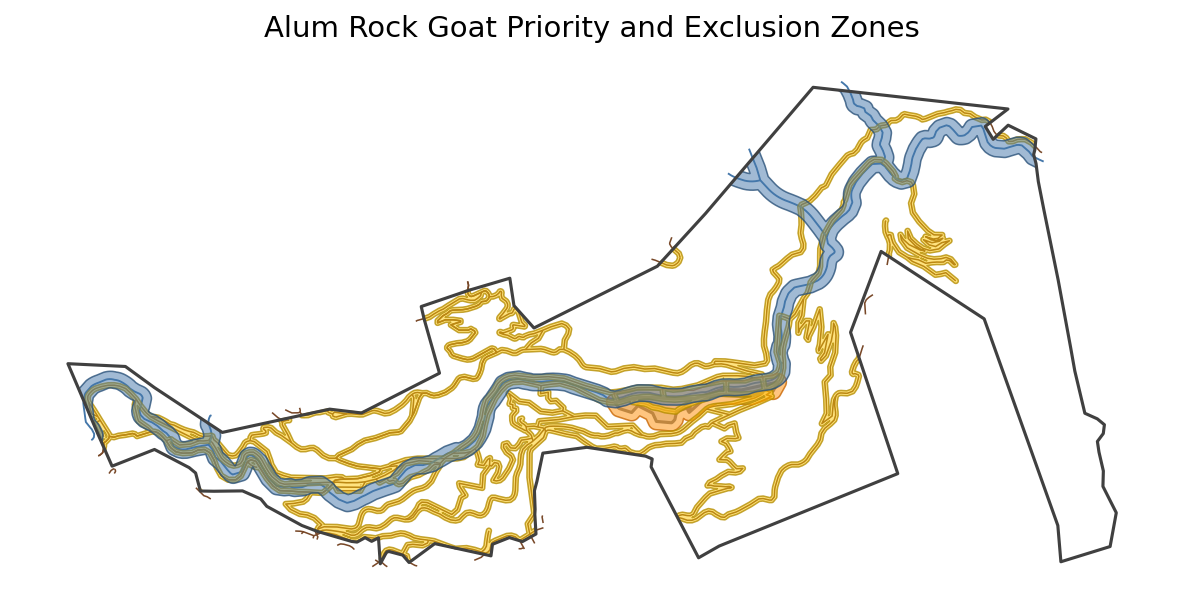
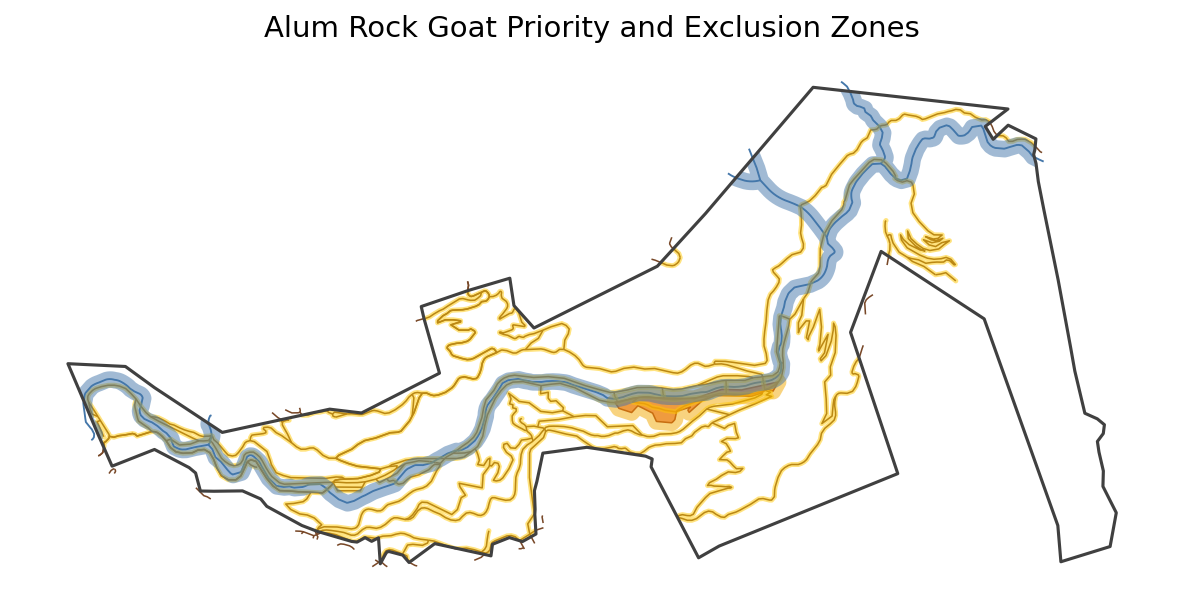
dedupe vegetation classes
minor styling updates

Changed region(s): [[0.0609, 0.1782, 0.8825, 0.9208], [0.6695, 0.6832, 0.6999, 0.7723], [0.5478, 0.4158, 0.5782, 0.4455]]

diff --git a/projects/goats/layers/suitability.py b/projects/goats/layers/suitability.py
@@ -23,15 +23,14 @@ Slope reclassification (inverted — steeper is more effective for goat grazing)
   slope=4  too steep  (58%+)      → 0  (hard exclude)
   gdal_calc: (A==1)*2 + (A==2)*3 + (A==3)*4
 
-Vegetation reclassification (rasterize ENHANCED_LIFEFORM field)
-  Shrub                                      → 4  (primary target)
-  Non-native Herbaceous                      → 3  (invasive, accessible)
-  Herbaceous                                 → 3  (native grassland)
-  Eucalyptus / Non-native Forest             → 1  (neutral)
-  Forest / Deciduous/Evergreen Hardwood
-    / Pine/Cypress                           → 1  (neutral)
-  Riparian Forest                            → 0  (hard exclude via vegetation)
-  Developed                                  → 0  (hard exclude)
+Vegetation reclassification (rasterize veg_class field)
+  Shrub                  → 4  (primary target)
+  Non-native herbaceous  → 3  (invasive, accessible)
+  Herbaceous             → 3  (native grassland)
+  Non-native woodland    → 1  (neutral)
+  Native woodland        → 1  (neutral)
+  Riparian forest        → 0  (hard exclude via vegetation)
+  Developed              → 0  (hard exclude)
   Use rasterio.features.rasterize with a per-feature burn-value lookup.
 
 Priority reclassification (rasterize each buffer polygon; binary → 1-4 scale)
@@ -106,24 +105,26 @@ from projects.goats.util import CRS
 M2_PER_ACRE = 4046.856
 
 # Overlay weights: must sum to 1.0
-WEIGHT_SLOPE = 1 / 3
-WEIGHT_VEGETATION = 1 / 3
-WEIGHT_PRIORITY = 1 / 3
+# priority,slope,vegetation
+# 33,33,33 equal
+# 25,25,50 vegetation
+# 25,50,25 slope
+# 40,30,30 priority
+# 10,40,40 minor priority
+WEIGHT_PRIORITY = 0.1
+WEIGHT_SLOPE = 0.4
+WEIGHT_VEGETATION = 0.4
 
 # index = slope class (0=nodata, 1=flat, 2=moderate, 3=steep, 4=too-steep)
 SLOPE_TO_SUITABILITY = np.array([0, 2, 3, 4, 0], dtype="uint8")
 
 VEGETATION_SUITABILITY: dict[str, int] = {
     "Shrub": 4,
-    "Non-native Herbaceous": 3,
+    "Non-native herbaceous": 3,
     "Herbaceous": 3,
-    "Eucalyptus": 1,
-    "Non-native Forest": 1,
-    "Forest": 1,
-    "Deciduous Hardwood": 1,
-    "Evergreen Hardwood": 1,
-    "Pine/Cypress": 1,
-    "Riparian Forest": 0,
+    "Non-native woodland": 1,
+    "Native woodland": 1,
+    "Riparian forest": 0,
     "Developed": 0,
 }
 
@@ -170,8 +171,8 @@ def build_suitability(layer: BoundLayer) -> None:
     # convert vector vegetation to raster to line up with slope
     veg_gdf = gpd.read_file(vegetation_layer.path).to_crs(CRS)
     veg_shapes = [
-        (geom, VEGETATION_SUITABILITY.get(str(lf), 0))
-        for geom, lf in zip(veg_gdf.geometry, veg_gdf["ENHANCED_LIFEFORM"])
+        (geom, VEGETATION_SUITABILITY.get(str(cls), 0))
+        for geom, cls in zip(veg_gdf.geometry, veg_gdf["veg_class"])
         if geom is not None and not geom.is_empty
     ]
     veg_raster = rasterio.features.rasterize(

diff --git a/projects/goats/palette.py b/projects/goats/palette.py
@@ -28,8 +28,8 @@ WATER_EDGE = Color.from_hex("#285078", alpha=200)
 
 # ── Developed / built environment ──────────────────────────────────────────────
 
-DEVELOPED_FILL = Color.from_hex("#c8c8c8", alpha=128)
-DEVELOPED_EDGE = Color.from_hex("#808080")
+DEVELOPED_FILL = Color.from_hex("#e34a33", alpha=160)
+DEVELOPED_EDGE = Color.from_hex("#9e3322")
 
 # ── Roads and trails ───────────────────────────────────────────────────────────
 
@@ -41,10 +41,10 @@ ROADS_LINE = Color.from_hex("#784828")
 VEG_SHRUB = Color.from_hex("#1a9850")
 VEG_NON_NATIVE_HERB = Color.from_hex("#a6d96a")
 VEG_HERBACEOUS = Color.from_hex("#fee08b")
-VEG_NON_NATIVE_WOOD = Color.from_hex("#cccccc")
-VEG_NATIVE_WOOD = Color.from_hex("#969696")
+VEG_NON_NATIVE_WOOD = Color.from_hex("#6b4f3a")
+VEG_NATIVE_WOOD = Color.from_hex("#a8927a")
+VEG_DEVELOPED = Color.from_hex("#595959")
 VEG_RIPARIAN = Color.from_hex("#bdd7e7")
-VEG_DEVELOPED = Color.from_hex("#636363")
 VEG_EDGE = Color(80, 80, 80, 120)
 
 # ── Slope ──────────────────────────────────────────────────────────────────────
@@ -69,10 +69,8 @@ STAGING_EDGE = Color.from_hex("#6e00a0")
 
 # ── Priority areas ─────────────────────────────────────────────────────────────
 
-PRIORITY_DEVELOPED_FILL = Color.from_hex("#ff8c00", alpha=128)
-PRIORITY_DEVELOPED_EDGE = Color.from_hex("#c86400", alpha=200)
+PRIORITY_DEVELOPED_FILL = Color.from_hex("#f2a900", alpha=128)
 PRIORITY_ROADS_FILL = Color.from_hex("#ffc800", alpha=128)
-PRIORITY_ROADS_EDGE = Color.from_hex("#b48c00", alpha=200)
 
 # ── Rank tiers ─────────────────────────────────────────────────────────────────
 

diff --git a/projects/goats/layers/vegetation.py b/projects/goats/layers/vegetation.py
@@ -3,6 +3,7 @@ Fine scale vegetation map
 """
 
 import os
+from pathlib import Path
 
 import geopandas as gpd
 
@@ -19,6 +20,7 @@ from projects.goats.palette import VEG_EDGE
 from projects.goats.util import (
     BBOX_GENERAL,
     CRS,
+    VEGETATION_VALUE_TO_LABEL,
     VEGETATION_ZONES,
     clip_border,
     vegetation_rules,
@@ -33,8 +35,6 @@ def crop_vegetation_to_bbox() -> None:
     Run once before the pipeline to reduce the 400 MB+ GDB to a small park-only
     file.  Prints size before and after.
     """
-    from pathlib import Path
-
     src_path = "projects/goats/data/fine_scale_vegetation.gdb"
     dst_path = "projects/goats/data/fine_scale_vegetation_bbox.gpkg"
 
@@ -59,10 +59,9 @@ def clip_vegetation(layer: BoundLayer) -> None:
     (border,) = layer.inputs
     gdf = gpd.read_file(layer.raw_path).to_crs(CRS)
     clipped = clip_border(gdf, border.path)
+    clipped["veg_class"] = clipped["ENHANCED_LIFEFORM"].map(VEGETATION_VALUE_TO_LABEL)
     dissolved = (
-        clipped[["ENHANCED_LIFEFORM", "geometry"]]
-        .dissolve(by="ENHANCED_LIFEFORM")
-        .reset_index()
+        clipped[["veg_class", "geometry"]].dissolve(by="veg_class").reset_index()
     )
     dissolved.to_file(layer.path, driver="GPKG")
 

diff --git a/projects/goats/main.py b/projects/goats/main.py
@@ -83,7 +83,6 @@ map_slope = Map(
     extent=EXTENT,
     layers=[
         park_boundary,
-        developed_area,
         water,
         roads_trails,
         slope,
@@ -101,7 +100,6 @@ map_veg = Map(
     extent=EXTENT,
     layers=[
         park_boundary,
-        developed_area,
         water,
         roads_trails,
         vegetation,
@@ -141,7 +139,6 @@ map_suitability = Map(
         staging,
         suitability,
         park_boundary,
-        developed_area,
         water,
         roads_trails,
         park_fill,
@@ -161,7 +158,6 @@ map_target_zones = Map(
         staging,
         target_zones,
         park_boundary,
-        developed_area,
         water,
         roads_trails,
         park_fill,
@@ -181,7 +177,6 @@ map_ranked_staging = Map(
         park_boundary,
         staging_ranked,
         target_zones,
-        developed_area,
         water,
         roads_trails,
         park_fill,

diff --git a/projects/goats/layers/priority_developed.py b/projects/goats/layers/priority_developed.py
@@ -15,7 +15,7 @@ from alidade.models import (
 )
 from projects.goats.layers.developed_area import developed_area
 from projects.goats.layers.park_boundary import park_boundary
-from projects.goats.palette import PRIORITY_DEVELOPED_EDGE, PRIORITY_DEVELOPED_FILL
+from projects.goats.palette import PRIORITY_DEVELOPED_FILL
 from projects.goats.util import BUFFER_100FT_M, CRS, clip_park
 
 
@@ -43,8 +43,7 @@ priority_developed = Layer(
                 SimpleFill(
                     color=PRIORITY_DEVELOPED_FILL,
                     style="solid",
-                    outline_color=PRIORITY_DEVELOPED_EDGE,
-                    outline_width=0.5,
+                    outline_width=0.0,
                 )
             ],
         )

diff --git a/projects/goats/layers/priority_roads_trails.py b/projects/goats/layers/priority_roads_trails.py
@@ -14,7 +14,7 @@ from alidade.models import (
 )
 from projects.goats.layers.park_boundary import park_boundary
 from projects.goats.layers.roads_trails import roads_trails
-from projects.goats.palette import PRIORITY_ROADS_EDGE, PRIORITY_ROADS_FILL
+from projects.goats.palette import PRIORITY_ROADS_FILL
 from projects.goats.util import BUFFER_30FT_M, CRS, clip_park
 
 
@@ -42,8 +42,7 @@ priority_roads_trails = Layer(
                 SimpleFill(
                     color=PRIORITY_ROADS_FILL,
                     style="solid",
-                    outline_color=PRIORITY_ROADS_EDGE,
-                    outline_width=0.5,
+                    outline_width=0.0,
                 )
             ],
         )

diff --git a/projects/goats/util.py b/projects/goats/util.py
@@ -64,7 +64,7 @@ class VegetationZone:
 
     @property
     def filter(self) -> str:
-        return " OR ".join(f"\"ENHANCED_LIFEFORM\" = '{v}'" for v in self.values)
+        return f"\"veg_class\" = '{self.label}'"
 
 
 VEGETATION_ZONES = [
@@ -86,6 +86,11 @@ VEGETATION_ZONES = [
     VegetationZone("Riparian forest", ["Riparian Forest"], VEG_RIPARIAN),
     VegetationZone("Developed", ["Developed"], VEG_DEVELOPED),
 ]
+
+# Collapses raw ENHANCED_LIFEFORM values into one row per legend class.
+VEGETATION_VALUE_TO_LABEL = {
+    value: zone.label for zone in VEGETATION_ZONES for value in zone.values
+}
 
 vegetation_rules = [
     Rule(

diff --git a/projects/goats/layers/exclude_water_vegetation.py b/projects/goats/layers/exclude_water_vegetation.py
@@ -43,7 +43,7 @@ exclude_water_vegetation = Layer(
                     color=WATER_FILL_SEMI,
                     style="solid",
                     outline_color=WATER_EDGE,
-                    outline_width=0.5,
+                    outline_width=0.0,
                 )
             ],
         )

diff --git a/projects/goats/layers/developed_area.py b/projects/goats/layers/developed_area.py
@@ -64,7 +64,7 @@ developed_area = Layer(
                 SimpleFill(
                     color=DEVELOPED_FILL,
                     outline_color=DEVELOPED_EDGE,
-                    outline_width=1.0,
+                    outline_width=0.5,
                 )
             ],
         )

diff --git a/projects/goats/workflow.md b/projects/goats/workflow.md
@@ -363,6 +363,35 @@ literals, matplotlib float tuples) with a single canonical `Color` type.
 
 ---
 
+## Step 21 — Vegetation legend deduplication for ArcGIS Online
+
+Each `VegetationZone` groups several raw `ENHANCED_LIFEFORM` values under one
+legend label (e.g. "Native woodland" = Forest, Deciduous Hardwood, Evergreen
+Hardwood, Pine/Cypress). QGIS's rule renderer handles an OR'd filter as a
+single legend entry, but `publish_arcgis._rule_renderer` emits one
+`uniqueValueInfo` per raw value in the OR — so ArcGIS Online showed "Non-native
+woodland" x2 and "Native woodland" x4.
+
+Fixed at the data layer instead of the renderer: `clip_vegetation` now adds a
+`veg_class` column (mapped from `ENHANCED_LIFEFORM` via
+`VEGETATION_VALUE_TO_LABEL`) and dissolves by that column, so the output has
+exactly one row per displayed class (343 source polygons → 7 rows, not 11).
+`VegetationZone.filter` now matches `"veg_class" = '<label>'` instead of an OR
+over raw values. `suitability.py`, which read `ENHANCED_LIFEFORM` directly for
+rasterization, was updated to read `veg_class`; `VEGETATION_SUITABILITY` is
+now keyed by the 7 group labels instead of the 11 raw values (every raw value
+in a group already carried the same suitability score, so this is a pure
+rename, not a scoring change).
+
+**Files changed:**
+- `util.py` — `VegetationZone.filter` matches `veg_class`; added
+  `VEGETATION_VALUE_TO_LABEL`
+- `layers/vegetation.py` — `clip_vegetation` adds `veg_class`, dissolves by it
+- `layers/suitability.py` — `VEGETATION_SUITABILITY` keyed by group label;
+  rasterization reads `veg_class`
+
+---
+
 ## Step 20 — Project → Map rename
 
 Renamed `Project` → `Map` and `BoundProject` → `BoundMap` throughout the
